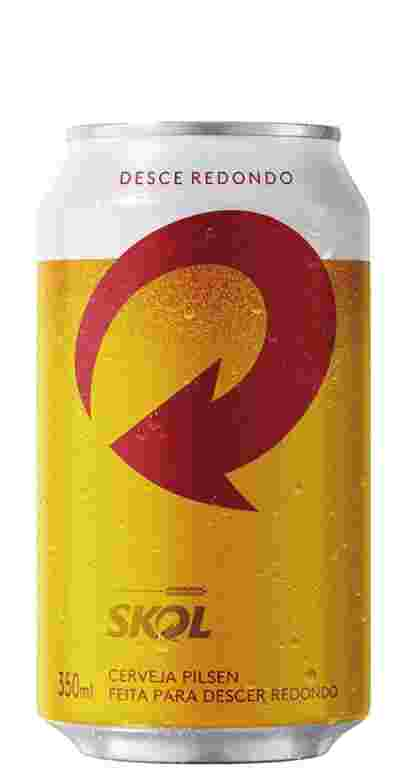
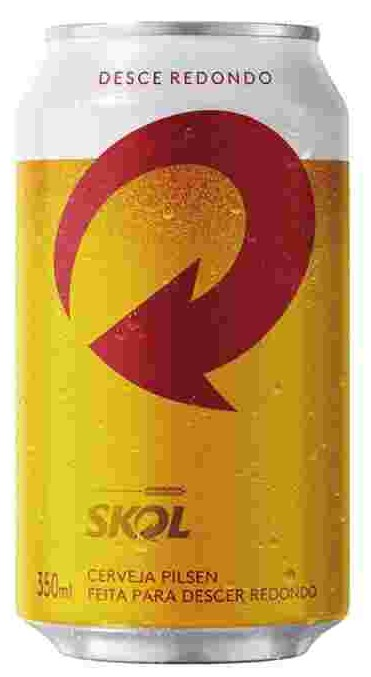
Feat: Fixa a posiçao da imagem de acordo com o começo da descrição

diff --git a/front-end/src/components/ProductCard/style.css b/front-end/src/components/ProductCard/style.css
@@ -46,4 +46,6 @@
 .productImage {
   width: 13rem;
   height: 25rem;
+  position: absolute;
+  bottom: 65px;
 }
